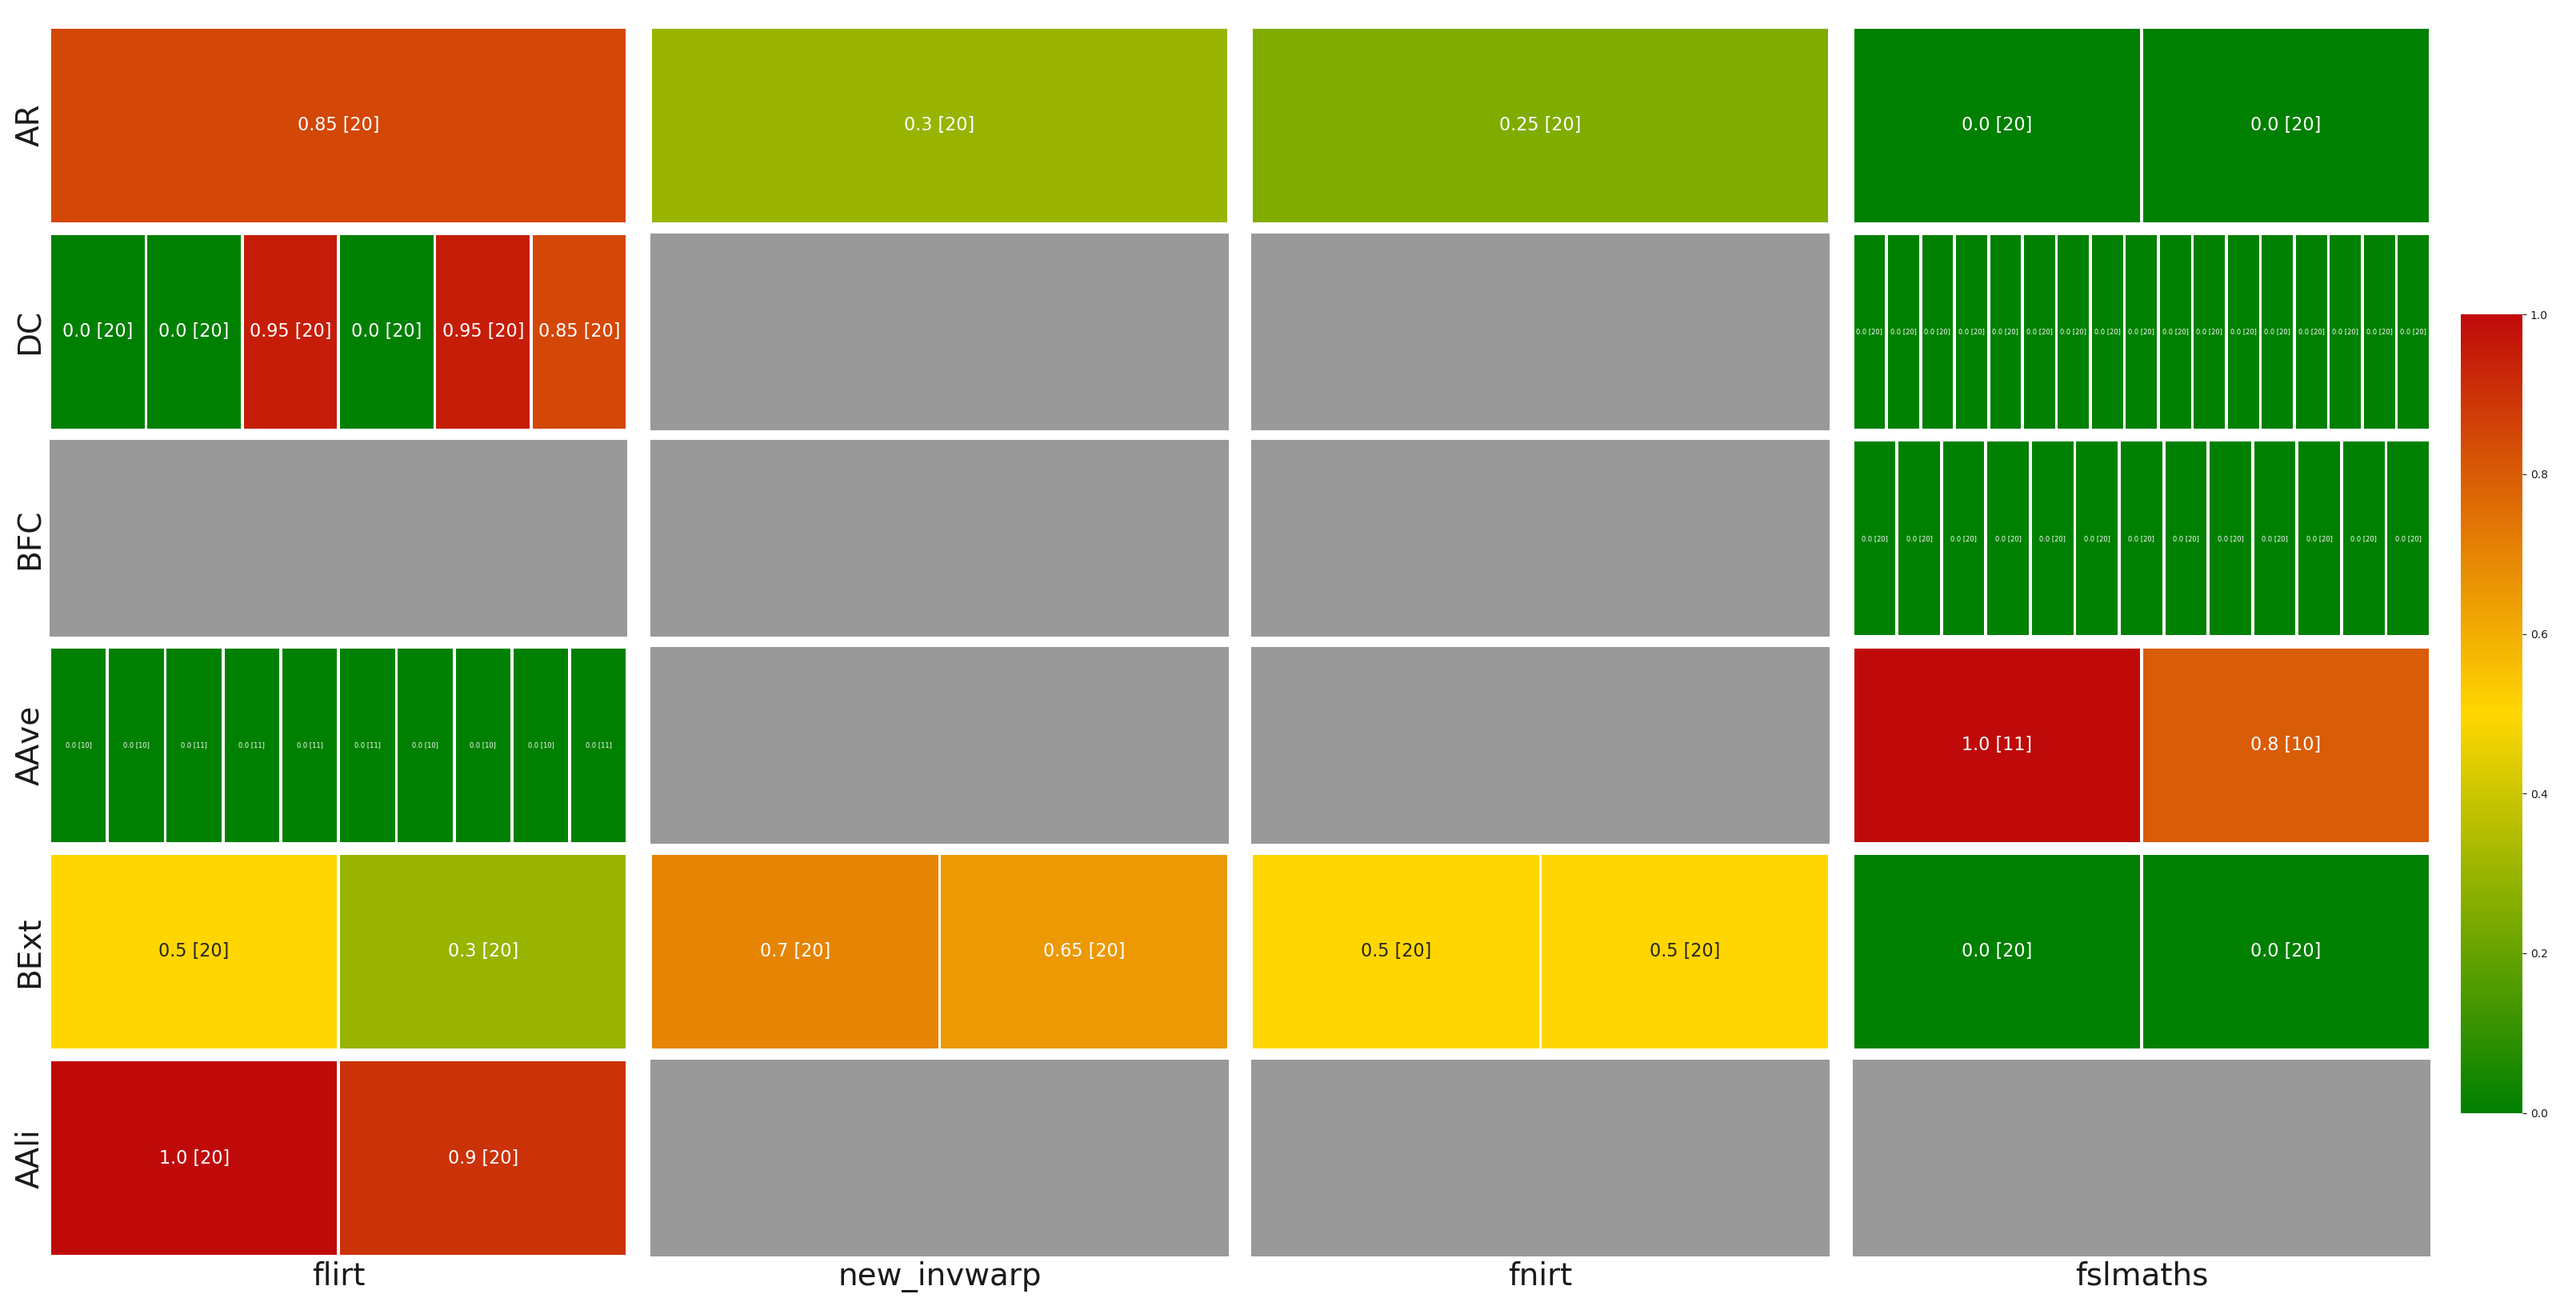
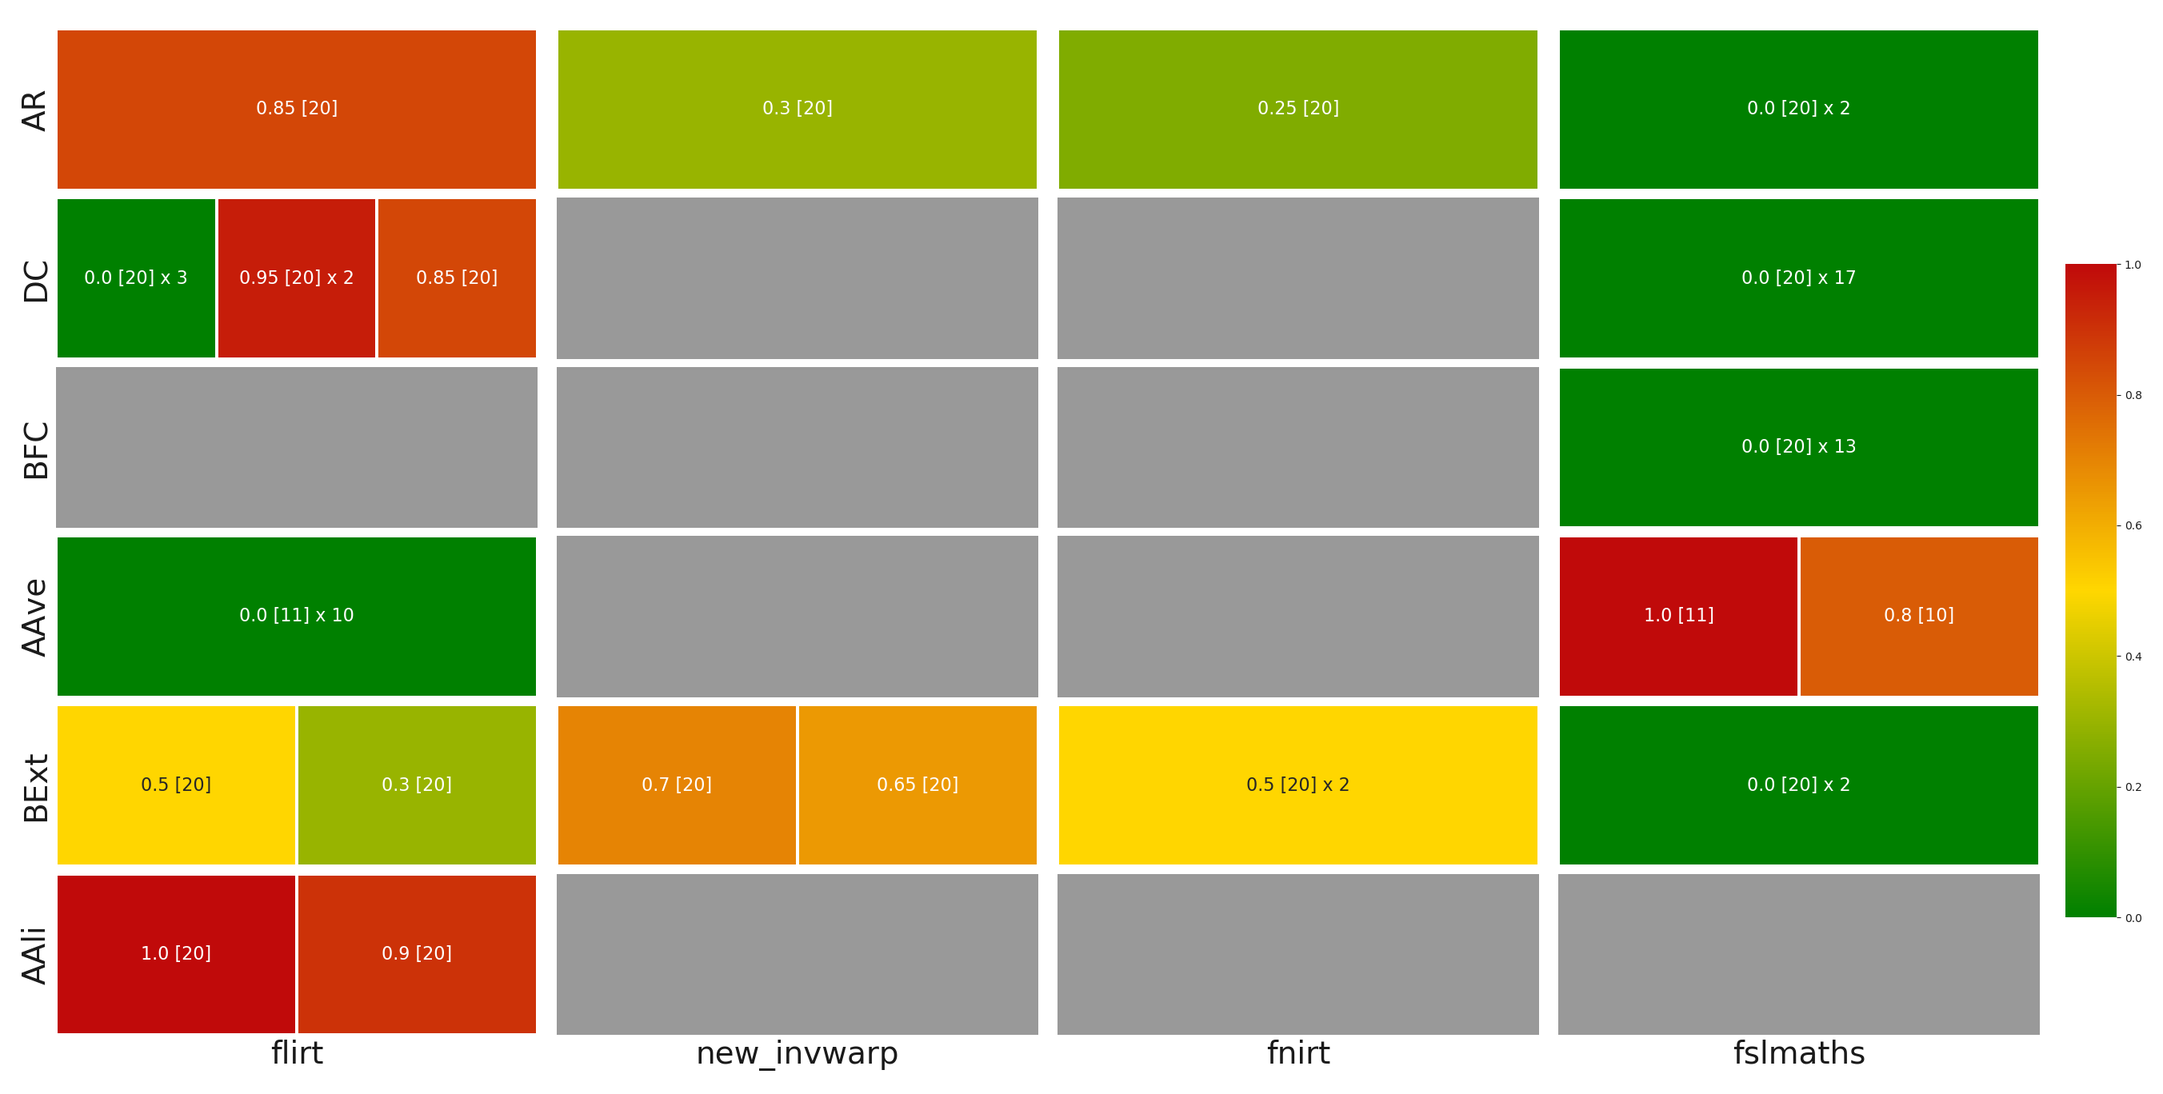
modify result images, add CSV file of region based differences

diff --git a/paper.tex b/paper.tex
@@ -727,11 +727,14 @@ CentOS.
 
 \begin{tabular}{@{}llllll@{}}
 \toprule
-Type   & Number of Subjects  & Missing File(s)                                    \\ \midrule
-type1  & 9                   & None                                               \\
-type2  & 7                   & [``T1w", ``T2w"]                                   \\
-type3  & 2                   & [``T1w"]                                           \\
-type4  & 2                   & [``T2w"]                                           \\ \bottomrule
+Type   & Number of Subjects  & Available Modalities                                         \\ \midrule
+type1  & 9                   & [``T1w\_MPR1", ``T1w\_MPR2",                     \\
+&  &                            ``T2w\_SPC1", ``T2w\_SPC2"]     \\
+type2  & 8                   & [``T1w\_MPR1", ``T2w\_SPC1"]                                 \\
+type3  & 1                   & [``T1w\_MPR1", ``T2w\_SPC1",   \\
+&  &                            ``T2w\_SPC2"]                   \\
+type4  & 2                   & [``T1w\_MPR1", ``T1w\_MPR2",   \\
+&  &                            ``T2w\_SPC1"]                   \\ \bottomrule
 \end{tabular}
 \begin{tablenotes}
      \small
@@ -760,10 +763,17 @@ creates differences in all 11 subjects in which it has appeared.
 \begin{figure}
 \centering
   \includegraphics[width=\columnwidth]{images/pfs_heatmap.png}
-  \caption{Heatmap of difference frequency of processes along with the sub-pipelines that introduce 
-           differences among 20 subjects. The range between red and green colors show the most and 
-           least frequency of processes respectively. Besides, the total number 
-           of occurrences of each processes is represented in the bracket in each cell.}
+  \caption{Heatmap frequency of processes along with the sub-pipelines that introduce 
+           differences among 20 subjects. The range between red and green colors shows the most and 
+           least frequency of processes, respectively. 
+           Each cell describes the frequency of the specific process in the sub-pipelines.        
+           Each cell may split into multiple sub-cells when the specific process 
+           called by different options (distinct process).
+           Annotations represent `N [M] x Y" in which N is the percentage of the distinct process 
+           that creates differences out of all M times that is occurred in that sub-pipeline. 
+           Also, times Y shows the number of the distinct process with the same distribution.
+           For example, the cell of process FLIRT in sub-pipeline AAve shows 10 distinct processes  
+           with the frequency of 10 that introduce no differences.}
   \label{fig:pfs_freq}
 \end{figure}
 
@@ -783,8 +793,8 @@ Each rectangle includes the replaced pixels with different intensity values betw
     CentOS7). Right images show the zoomed version part of the images marked 
     by the red rectangle.
     Here is 
-    \href{https://raw.githubusercontent.com/ali4006/HCP-reproducibility-paper/master/images/brain_classification.gif}{the link}
-    to the gif animation of the same images.
+    \href{https://raw.githubusercontent.com/ali4006/HCP-reproducibility-paper/master/images/brain_classification.gif}
+    {the link} to the gif animation of the same images.
 } 
     \label{fig:fnirt_result}
 \end{figure}
@@ -816,9 +826,13 @@ The magnitude of differences is in the range of 1-20 as the total number of subj
 \begin{figure}
 %  \includegraphics{brain\_classification}
 \centering
-  \includegraphics[width=\columnwidth]{images/brain_classification.png} 
+  \includegraphics[width=\columnwidth]{images/brain_classification_mni.png} 
   \caption{Heatmap binarized differences between brain segmentation results (file \emph{aseg.hires.mgz}) from 
-          20 subjects in FreeSurfer (CentOS6 vs. CentOS7).} 
+          20 subjects in FreeSurfer (CentOS6 vs. CentOS7).
+          We calculated some statistics of the differences based on the dice value of the segmented regions.
+          Here is 
+          \href{https://encsconcordiaca-my.sharepoint.com/:x:/g/personal/m_alari_encs_concordia_ca/EfNB-QMcivhIv6j0r9weffwBCHujf8RbaKjiYalIFa8cbQ?e=hyvQSU}
+          {the link} to the excel file.} 
   \label{fig:tissue_class}
 \end{figure}
 
@@ -851,9 +865,6 @@ for the floating-point related instabilities.
 
 Although we identify the processes in the pipeline that create differences, 
 the amplification of these differences should be quantified in the future works.
-For this purpose, we can evaluate the final result after perturbing the identified 
-processes in the pipeline iteratively.
-As a result, the processes that amplify differences would have a significant effect on the results.
 
 
 \section{Conclusion}
